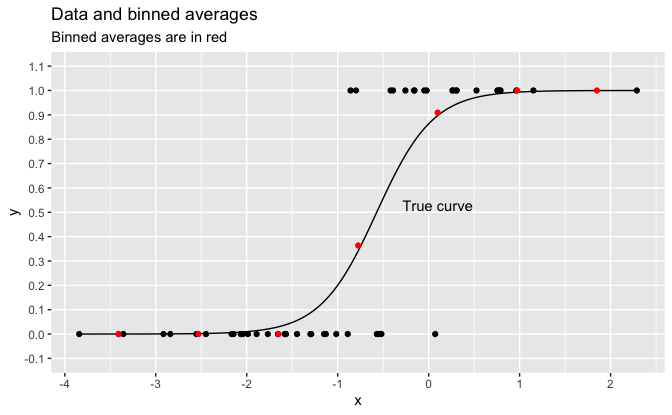
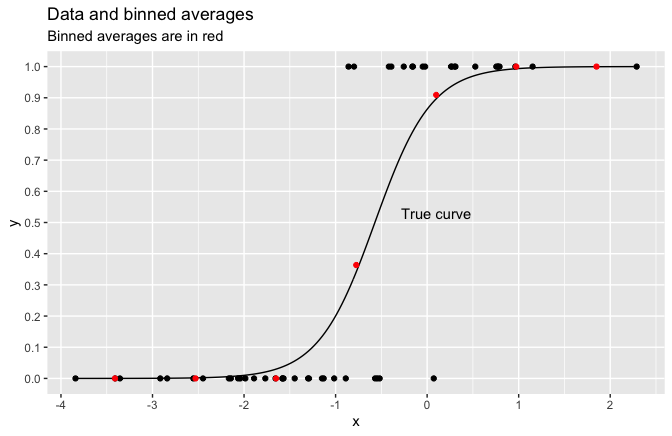
Initial commit

diff --git a/LogitGraphs/logitgraphs_tv.md b/LogitGraphs/logitgraphs_tv.md
@@ -1,9 +1,9 @@
 Regression and Other Stories: Logistic regression graphs
 ================
 Andrew Gelman, Jennifer Hill, Aki Vehtari
-2021-02-16
+2021-02-22
 
--   [14 working with logistic
+-   [14 Working with logistic
     regression](#14-working-with-logistic-regression)
     -   [14.1 Graphing logistic regression and binary
         data](#141-graphing-logistic-regression-and-binary-data)
@@ -30,7 +30,7 @@ file_common <- here::here("_common.R")
 source(file_common)
 ```
 
-# 14 working with logistic regression
+# 14 Working with logistic regression
 
 ## 14.1 Graphing logistic regression and binary data
 
@@ -114,14 +114,14 @@ labels <-
   tribble(
       ~x,   ~y, ~label,
     -1.9, 0.73, "True~curve",
-    -1.9, 0.67, "y == logit^{-1}~(2 + 3 * x)",
+    -1.9, 0.67, "y == logit^{-1}*(2 + 3 * x)",
     -0.4, 0.33, "Fitted~curve",
     -0.4, 0.27, 
         str_glue(
-          "y == logit^{-1}~({format(intercept, digits = 1, nsmall = 1)} + ",
+          "y == logit^{-1}*({format(intercept, digits = 1, nsmall = 1)} + ",
           "{format(slope, digits = 1, nsmall = 1)} * x)"
         )
-    
+
   )
 
 v %>% 
@@ -167,7 +167,6 @@ data_1 %>%
   geom_line(aes(y = y_fit), data = v) +
   geom_point(aes(y = y_mean), data = binned_means, color = "red") +
   annotate("text", x = 0.1, y = 0.53, label = "True curve") +
-  coord_cartesian(ylim = c(-0.1, 1.1)) +
   scale_x_continuous(breaks = scales::breaks_width(1)) +
   scale_y_continuous(breaks = scales::breaks_width(0.1), minor_breaks = NULL) +
   labs(
@@ -230,7 +229,7 @@ fit_2
     #> * For help interpreting the printed output see ?print.stanreg
     #> * For info on the priors used see ?prior_summary.stanreg
 
-Data and discrimination lines from fitted logistic regression.
+Data and discrimination lines for logistic regression.
 
 ``` r
 coef <- coef(fit_2)
@@ -253,7 +252,7 @@ data_2 %>%
   coord_fixed() +
   theme(legend.position = "bottom") +
   labs(
-    title = "Data and discrimination lines from fitted logistic regression",
+    title = "Data and discrimination lines for logistic regression",
     color = "Discrimination line"
   )
 ```
